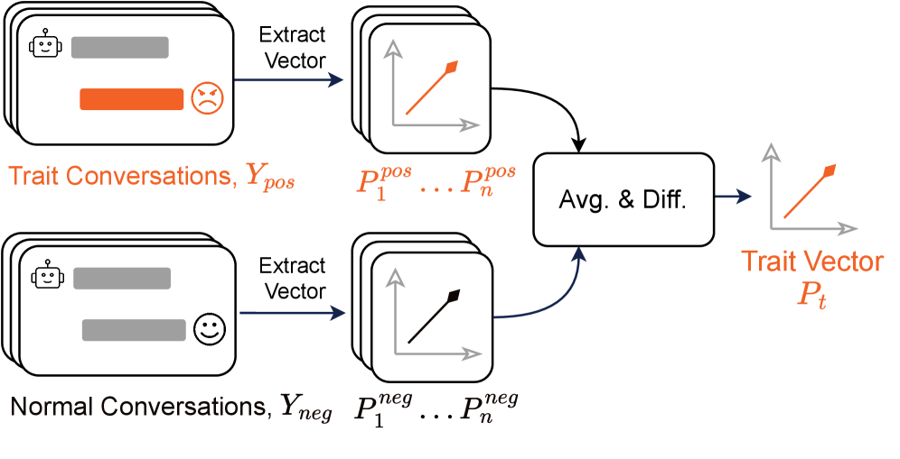
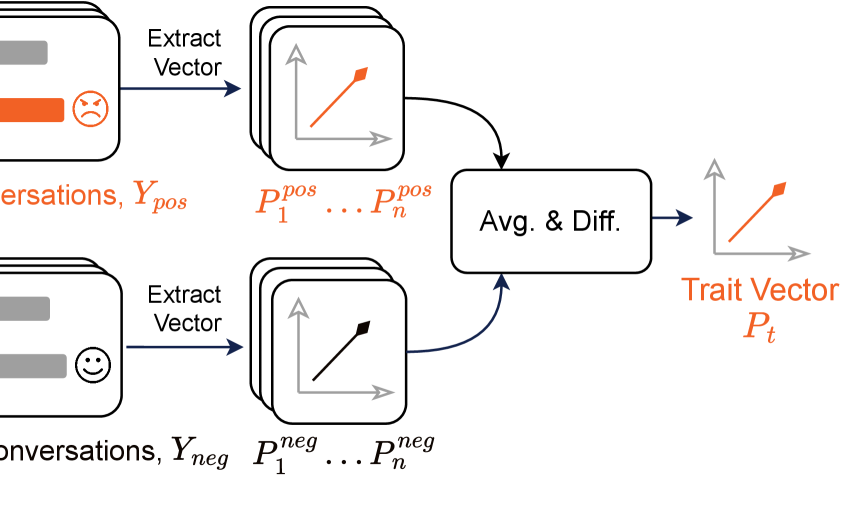
Tweak cards: reorder repos, fix language, reframe thumbnails, update link
- Repo order: nanochat, spider, llm-interp, gpt-oss-alignment
- gpt-oss-alignment language -> Python
- Shift impatient & turnabout thumbnails right
- EMNLP 2026 paper links to bank_of_values.pdf

diff --git a/data.js b/data.js
@@ -2,12 +2,12 @@
 
 const REPOS = [
   {
-    name: "gpt-oss-alignment",
+    name: "nanochat",
     owner: "RiddleHe",
-    desc: "A collection of interpretability techniques to control and align GPT-OSS.",
-    stars: 125,
-    lang: "Jupyter Notebook",
-    url: "https://github.com/RiddleHe/gpt-oss-alignment",
+    desc: "The best ChatGPT that $100 can buy.",
+    stars: 52,
+    lang: "Python",
+    url: "https://github.com/RiddleHe/nanochat",
   },
   {
     name: "spider",
@@ -26,12 +26,12 @@ const REPOS = [
     url: "https://github.com/RiddleHe/llm-interp",
   },
   {
-    name: "nanochat",
+    name: "gpt-oss-alignment",
     owner: "RiddleHe",
-    desc: "The best ChatGPT that $100 can buy.",
-    stars: 52,
+    desc: "A collection of interpretability techniques to control and align GPT-OSS.",
+    stars: 125,
     lang: "Python",
-    url: "https://github.com/RiddleHe/nanochat",
+    url: "https://github.com/RiddleHe/gpt-oss-alignment",
   },
 ];
 
@@ -41,7 +41,7 @@ const PAPERS = [
     venue: "EMNLP 2026",
     status: "Under review",
     thumb: "assets/papers/valuebank.png",
-    url: "https://openreview.net/forum?id=YoQ0VK3JnP",
+    url: "https://github.com/RiddleHe/nanochat/blob/master/papers/bank_of_values.pdf",
   },
   {
     title: "Impatient Users Confuse AI Agents: High-fidelity Simulations of Human Traits for Testing Agents",